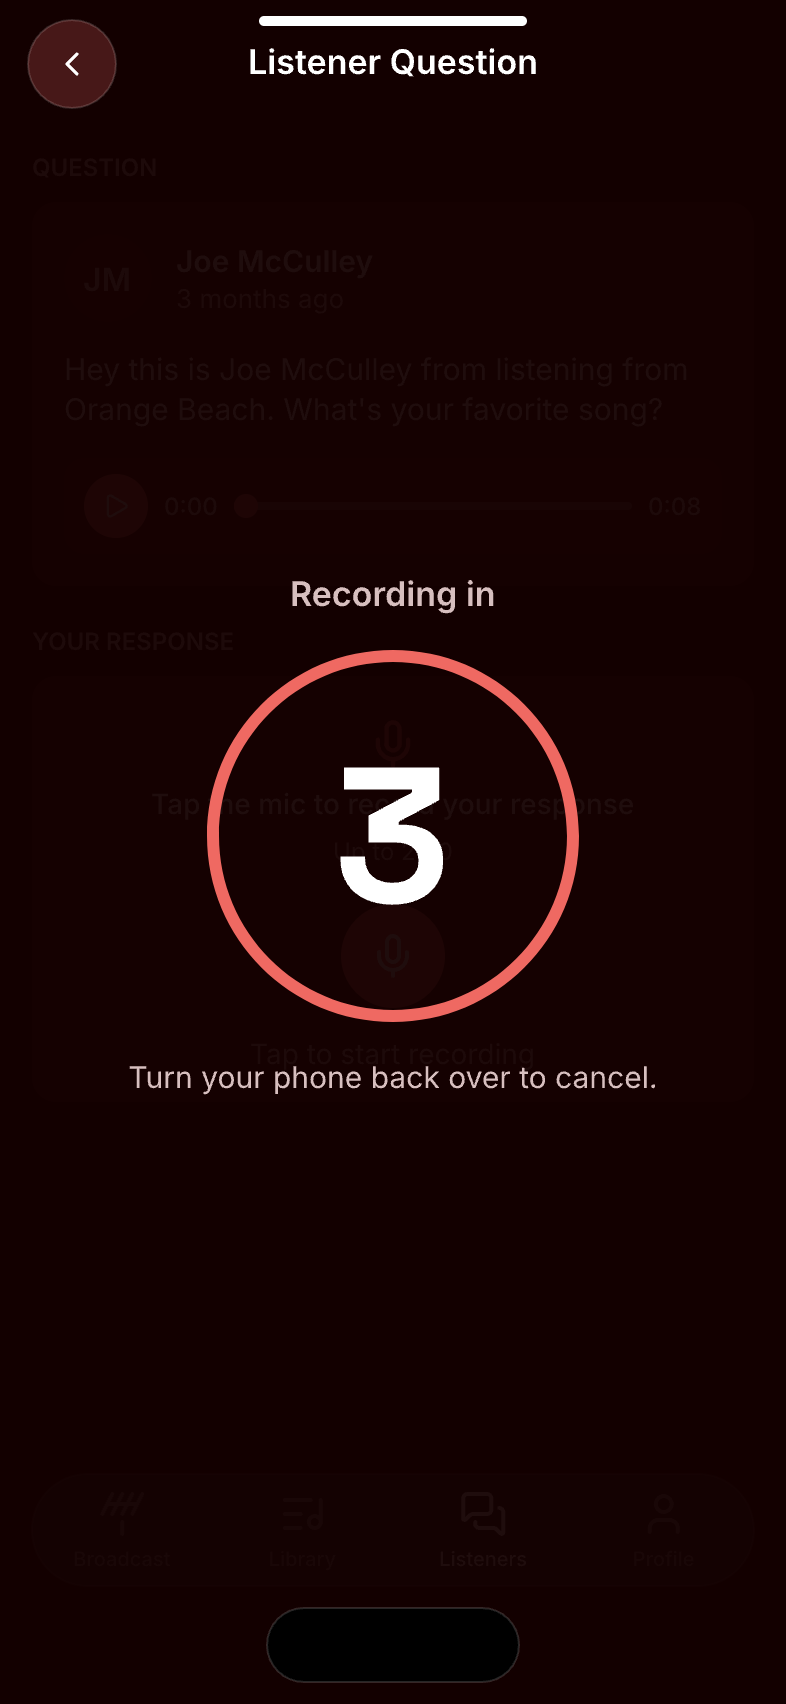
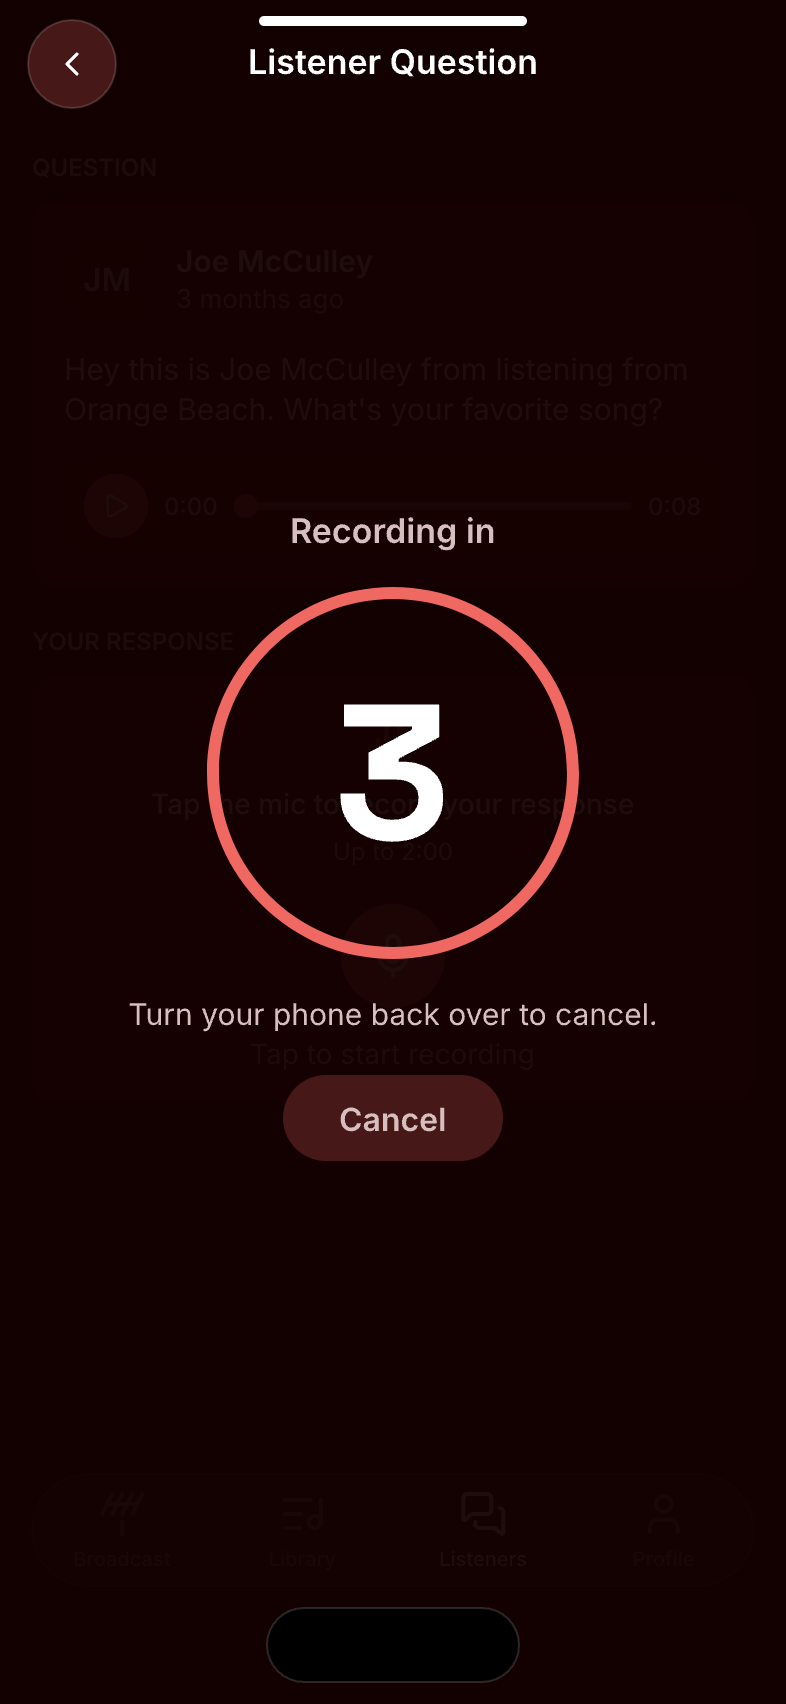
design: show the Cancel button on the countdown mockup
The countdown overlay ships with its own Cancel button (spec step 2), but
the canvas mockup and its exports were missing it.

Changed region(s): [[0.1832, 0.2799, 0.7634, 0.6843], [0.6718, 0.591, 0.8244, 0.6532]]

diff --git a/design/features/flip-to-record/exports/flip-to-record.css.html b/design/features/flip-to-record/exports/flip-to-record.css.html
@@ -794,6 +794,17 @@
           >
             Turn your phone back over to cancel.
           </div>
+          <div
+            data-pencil-name="Countdown Cancel"
+            style="align-items: center; background-color: #471818; border-radius: 999px; box-sizing: border-box; display: flex; flex-direction: row; flex-shrink: 0; gap: 0px; height: fit-content; justify-content: center; padding: 12px 28px; width: fit-content"
+          >
+            <div
+              data-pencil-name="Cancel Label"
+              style="box-sizing: border-box; color: #D7BFBF; font-family: Inter, system-ui, sans-serif; font-size: 16px; font-style: normal; font-weight: 600; letter-spacing: 0px; line-height: normal; text-align: left; white-space: nowrap"
+            >
+              Cancel
+            </div>
+          </div>
         </div>
         <div
           data-pencil-name="Home Indicator (rotated, top)"

diff --git a/design/features/flip-to-record/exports/flip-to-record.tailwind.html b/design/features/flip-to-record/exports/flip-to-record.tailwind.html
@@ -797,6 +797,17 @@
           >
             Turn your phone back over to cancel.
           </div>
+          <div
+            data-pencil-name="Countdown Cancel"
+            class="box-border w-fit h-fit shrink-0 flex flex-row gap-0 p-[12px_28px] justify-center items-center bg-[#471818] rounded-[999px]"
+          >
+            <div
+              data-pencil-name="Cancel Label"
+              class="text-[16px]/[normal] box-border text-[#D7BFBF] font-[Inter,system-ui,sans-serif] font-semibold text-left [white-space:nowrap]"
+            >
+              Cancel
+            </div>
+          </div>
         </div>
         <div
           data-pencil-name="Home Indicator (rotated, top)"
